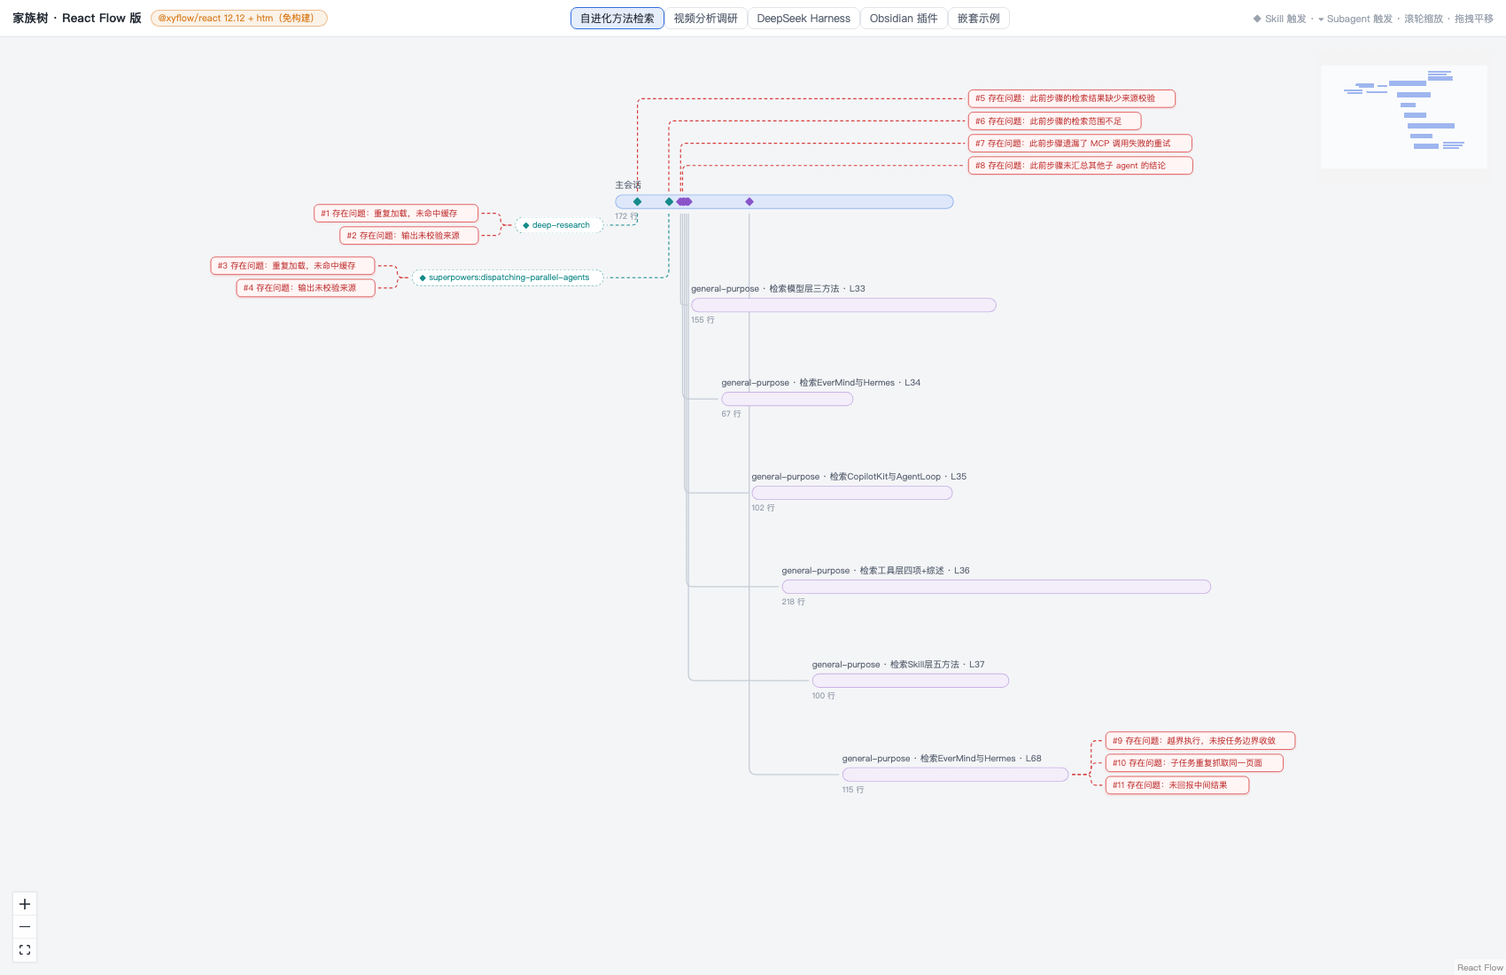
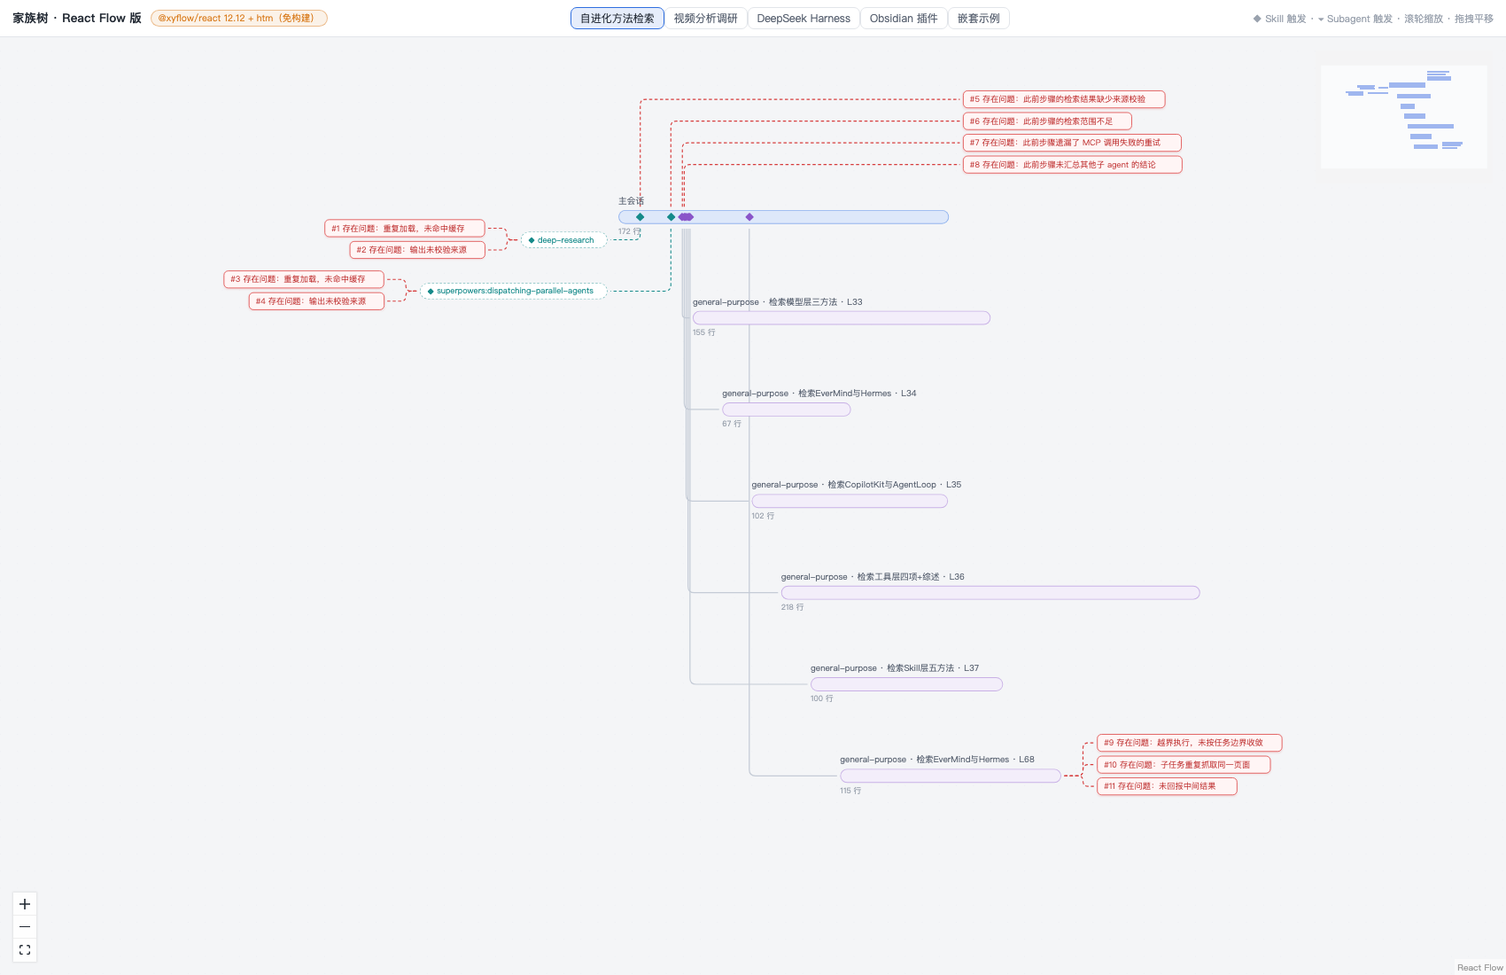
docs(plans): 家族树原型把问题标注挂到各子 agent 触发点 (#14) (#15)
- addReported 改为普通函数，主会话与所有 agent 节点分别调用
- 子 agent 的 skill/agent 触发标记也会生成上报型问题
- 问题上移 36px，避免与触发点连线重叠
- demo-nested 的子任务 B 补 review-changes skill 标记
- 同步刷新 demo 与 reported 两张截图

diff --git a/plans/14-15-ui-prototype/reactflow-tree.html b/plans/14-15-ui-prototype/reactflow-tree.html
@@ -84,7 +84,7 @@ import htm from "htm";
 const html = htm.bind(React.createElement);
 
 /* ── 真实数据：4 条 llm-wiki 会话的递归家族树 ── */
-const TREE = {"050b81ba-9621-4992-84fe-106ae46eb36b":{"main":{"lines":172,"events":[{"line":11,"kind":"skill","name":"deep-research"},{"line":27,"kind":"skill","name":"superpowers:dispatching-parallel-agents"},{"line":33,"kind":"agent","desc":"检索模型层三方法","toolUseId":"call_e53aacffd75243cfb4149364"},{"line":34,"kind":"agent","desc":"检索EverMind与Hermes","toolUseId":"call_c3d67fda22ff475ca33c0727"},{"line":35,"kind":"agent","desc":"检索CopilotKit与AgentLoop","toolUseId":"call_a889b3257feb452b9cf626de"},{"line":36,"kind":"agent","desc":"检索工具层四项+综述","toolUseId":"call_721e8f24e31a43f2ae4a729f"},{"line":37,"kind":"agent","desc":"检索Skill层五方法","toolUseId":"call_ae52e1ef5ee241ada8121daa"},{"line":68,"kind":"agent","desc":"检索EverMind与Hermes","toolUseId":"call_184b9af0f222466c829d47a6"}]},"subs":[{"id":"a2895fbff994319b9","type":"general-purpose","desc":"检索工具层四项+综述","toolUseId":"call_721e8f24e31a43f2ae4a729f","lines":218,"events":[],"children":[]},{"id":"a1e781fa406447bd1","type":"general-purpose","desc":"检索EverMind与Hermes","toolUseId":"call_c3d67fda22ff475ca33c0727","lines":67,"events":[],"children":[]},{"id":"a1b56297d1a40a4a3","type":"general-purpose","desc":"检索CopilotKit与AgentLoop","toolUseId":"call_a889b3257feb452b9cf626de","lines":102,"events":[],"children":[]},{"id":"ac2160daf0faacf0e","type":"general-purpose","desc":"检索EverMind与Hermes","toolUseId":"call_184b9af0f222466c829d47a6","lines":115,"events":[],"children":[]},{"id":"aea6f9b15b1c40b11","type":"general-purpose","desc":"检索Skill层五方法","toolUseId":"call_ae52e1ef5ee241ada8121daa","lines":100,"events":[],"children":[]},{"id":"a52da9da97e2dfb47","type":"general-purpose","desc":"检索模型层三方法","toolUseId":"call_e53aacffd75243cfb4149364","lines":155,"events":[],"children":[]}]},"cb819c5b-286f-4eab-a681-4ba5414b844d":{"main":{"lines":765,"events":[{"line":24,"kind":"skill","name":"deep-research"},{"line":30,"kind":"workflow","name":"deep-research","toolUseId":"call_ca6fc28804434e5090e6a5e2"},{"line":86,"kind":"workflow","name":"workflow","toolUseId":"call_fafc9d21a30c430981d5baec"},{"line":96,"kind":"workflow","name":"workflow","toolUseId":"call_40746578c3e749b59f248000"}]},"subs":[{"id":"wf_1fb8ca61-c70","type":"workflow","desc":"56 个 workflow 子 agent","lines":0,"events":[],"children":[{"id":"ac36d6e975490864d","type":"workflow-subagent","desc":"","toolUseId":null,"lines":18,"events":[],"children":[]},{"id":"a5a83bdb710566b2d","type":"workflow-subagent","desc":"","toolUseId":null,"lines":14,"events":[],"children":[]},{"id":"a6932a5807e8fe835","type":"workflow-subagent","desc":"","toolUseId":null,"lines":14,"events":[],"children":[]},{"id":"a11c18476a850547b","type":"workflow-subagent","desc":"","toolUseId":null,"lines":14,"events":[],"children":[]},{"id":"acd03e893a30ba3d3","type":"workflow-subagent","desc":"","toolUseId":null,"lines":18,"events":[],"children":[]},{"id":"aa3767120db81c557","type":"workflow-subagent","desc":"","toolUseId":null,"lines":25,"events":[],"children":[]},{"id":"a07fd64b88a9fe721","type":"workflow-subagent","desc":"","toolUseId":null,"lines":20,"events":[],"children":[]},{"id":"a75602e08fcc4e0cd","type":"workflow-subagent","desc":"","toolUseId":null,"lines":14,"events":[],"children":[]},{"id":"a16a4a2f8f83ebaf5","type":"workflow-subagent","desc":"","toolUseId":null,"lines":30,"events":[],"children":[]},{"id":"a096d8db77b01a2c5","type":"workflow-subagent","desc":"","toolUseId":null,"lines":16,"events":[],"children":[]},{"id":"ae8dfe8fb668716fa","type":"workflow-subagent","desc":"","toolUseId":null,"lines":23,"events":[],"children":[]},{"id":"aa44961ca580ca971","type":"workflow-subagent","desc":"","toolUseId":null,"lines":14,"events":[],"children":[]},{"id":"a5de0c4193f235a20","type":"workflow-subagent","desc":"","toolUseId":null,"lines":15,"events":[],"children":[]},{"id":"a867160aa06bdb8c3","type":"workflow-subagent","desc":"","toolUseId":null,"lines":12,"events":[],"children":[]},{"id":"a24df81ee6d95db89","type":"workflow-subagent","desc":"","toolUseId":null,"lines":13,"events":[],"children":[]},{"id":"a2a7fe251d67d3f00","type":"workflow-subagent","desc":"","toolUseId":null,"lines":28,"events":[],"children":[]},{"id":"a6ccc55785f59078e","type":"workflow-subagent","desc":"","toolUseId":null,"lines":13,"events":[],"children":[]},{"id":"a205180ccb6595676","type":"workflow-subagent","desc":"","toolUseId":null,"lines":17,"events":[],"children":[]},{"id":"a9dfeef3d5a082ea8","type":"workflow-subagent","desc":"","toolUseId":null,"lines":13,"events":[],"children":[]},{"id":"a88f36ebc60749319","type":"workflow-subagent","desc":"","toolUseId":null,"lines":9,"events":[],"children":[]},{"id":"a6b4c4c5610ee7220","type":"workflow-subagent","desc":"","toolUseId":null,"lines":8,"events":[],"children":[]},{"id":"a7ec3cc0abccf8f18","type":"workflow-subagent","desc":"","toolUseId":null,"lines":16,"events":[],"children":[]},{"id":"a147c8d32bc363abc","type":"workflow-subagent","desc":"","toolUseId":null,"lines":13,"events":[],"children":[]},{"id":"a8dfda2ac8a92b03f","type":"workflow-subagent","desc":"","toolUseId":null,"lines":13,"events":[],"children":[]},{"id":"a069628a22668b5bf","type":"workflow-subagent","desc":"","toolUseId":null,"lines":13,"events":[],"children":[]},{"id":"ab4ac00a69d52afdf","type":"workflow-subagent","desc":"","toolUseId":null,"lines":12,"events":[],"children":[]},{"id":"af96fa5b003c9ba6a","type":"workflow-subagent","desc":"","toolUseId":null,"lines":10,"events":[],"children":[]},{"id":"a58d359839c447fc9","type":"workflow-subagent","desc":"","toolUseId":null,"lines":10,"events":[],"children":[]},{"id":"a51f79677edf27d40","type":"workflow-subagent","desc":"","toolUseId":null,"lines":27,"events":[],"children":[]},{"id":"addf2ae8cc3cdc8a0","type":"workflow-subagent","desc":"","toolUseId":null,"lines":14,"events":[],"children":[]},{"id":"a5f5d43792060d25b","type":"workflow-subagent","desc":"","toolUseId":null,"lines":26,"events":[],"children":[]},{"id":"a4ab3257583e408f5","type":"workflow-subagent","desc":"","toolUseId":null,"lines":14,"events":[],"children":[]},{"id":"ac1b3cdaa9f4a0622","type":"workflow-subagent","desc":"","toolUseId":null,"lines":13,"events":[],"children":[]},{"id":"a07750dfd9e1dbc31","type":"workflow-subagent","desc":"","toolUseId":null,"lines":22,"events":[],"children":[]},{"id":"ad5324b3bbbe5c9fb","type":"workflow-subagent","desc":"","toolUseId":null,"lines":13,"events":[],"children":[]},{"id":"ac9094285f2ae7124","type":"workflow-subagent","desc":"","toolUseId":null,"lines":16,"events":[],"children":[]},{"id":"a5b0a0b71a7d15b4a","type":"workflow-subagent","desc":"","toolUseId":null,"lines":16,"events":[],"children":[]},{"id":"aaf97c90e144c2962","type":"workflow-subagent","desc":"","toolUseId":null,"lines":14,"events":[],"children":[]},{"id":"a04db93ae03781487","type":"workflow-subagent","desc":"","toolUseId":null,"lines":12,"events":[],"children":[]},{"id":"a4165f215195b2771","type":"workflow-subagent","desc":"","toolUseId":null,"lines":14,"events":[],"children":[]},{"id":"ac58eff7336630fd8","type":"workflow-subagent","desc":"","toolUseId":null,"lines":19,"events":[],"children":[]},{"id":"a42023f24122896d7","type":"workflow-subagent","desc":"","toolUseId":null,"lines":16,"events":[],"children":[]},{"id":"a5f24ff936197abf5","type":"workflow-subagent","desc":"","toolUseId":null,"lines":34,"events":[],"children":[]},{"id":"a1daa453c10c94610","type":"workflow-subagent","desc":"","toolUseId":null,"lines":6,"events":[],"children":[]},{"id":"a751831cbb4561874","type":"workflow-subagent","desc":"","toolUseId":null,"lines":22,"events":[],"children":[]},{"id":"a6d5156449ac4d54b","type":"workflow-subagent","desc":"","toolUseId":null,"lines":36,"events":[],"children":[]},{"id":"ac4b110729444739e","type":"workflow-subagent","desc":"","toolUseId":null,"lines":17,"events":[],"children":[]},{"id":"a1ed323809b4de3ab","type":"workflow-subagent","desc":"","toolUseId":null,"lines":23,"events":[],"children":[]},{"id":"a2648bb186362666c","type":"workflow-subagent","desc":"","toolUseId":null,"lines":28,"events":[],"children":[]},{"id":"a9b38066ce599d0e3","type":"workflow-subagent","desc":"","toolUseId":null,"lines":42,"events":[],"children":[]},{"id":"a609a6b4a290624e1","type":"workflow-subagent","desc":"","toolUseId":null,"lines":18,"events":[],"children":[]},{"id":"adf051df0e301c41d","type":"workflow-subagent","desc":"","toolUseId":null,"lines":19,"events":[],"children":[]},{"id":"a5063dc82b8cb21eb","type":"workflow-subagent","desc":"","toolUseId":null,"lines":13,"events":[],"children":[]},{"id":"a1e4c45c611d7b873","type":"workflow-subagent","desc":"","toolUseId":null,"lines":12,"events":[],"children":[]},{"id":"a18da33bd1200e0f3","type":"workflow-subagent","desc":"","toolUseId":null,"lines":22,"events":[],"children":[]},{"id":"a163628a06fde4a4f","type":"workflow-subagent","desc":"","toolUseId":null,"lines":9,"events":[],"children":[]}],"toolUseId":null,"line":30}]},"2f5e7ae8-c04a-46d2-a17a-0b431ef17d44":{"main":{"lines":245,"events":[{"line":70,"kind":"agent","desc":"分析 agent loop 与 LLM 层","toolUseId":"call_f83509dc96064516b918ab58"},{"line":71,"kind":"agent","desc":"分析 session 域实现","toolUseId":"call_baa0925a3c294e1da456a20e"},{"line":72,"kind":"agent","desc":"分析工具管线与安全域","toolUseId":"call_df693038d0b94deba3aa9fcc"},{"line":73,"kind":"agent","desc":"分析自进化与协调面","toolUseId":"call_2b3ef841c8034e90b2ce79a2"}]},"subs":[{"id":"a4e4e3c14f6f54077","type":"Explore","desc":"分析工具管线与安全域","toolUseId":"call_df693038d0b94deba3aa9fcc","lines":123,"events":[],"children":[]},{"id":"a7c4a9def54b2fa40","type":"Explore","desc":"分析 agent loop 与 LLM 层","toolUseId":"call_f83509dc96064516b918ab58","lines":148,"events":[],"children":[]},{"id":"aefdc8337a8afc051","type":"Explore","desc":"分析自进化与协调面","toolUseId":"call_2b3ef841c8034e90b2ce79a2","lines":118,"events":[],"children":[]},{"id":"a131d7b1bd65cf691","type":"Explore","desc":"分析 session 域实现","toolUseId":"call_baa0925a3c294e1da456a20e","lines":193,"events":[],"children":[]}]},"3f8ed3dd-ff2c-4510-b944-b3f3e2edf8f5":{"main":{"lines":390,"events":[{"line":15,"kind":"agent","desc":"分析 claudian 代码仓","toolUseId":"call_86730e8c925e4d9db00b0958"},{"line":16,"kind":"agent","desc":"分析 deepseek-harness 插件机制","toolUseId":"call_4625441ea18541368c324be6"}]},"subs":[{"id":"ac5d429d5b911f846","type":"Explore","desc":"分析 claudian 代码仓","toolUseId":"call_86730e8c925e4d9db00b0958","lines":58,"events":[],"children":[]},{"id":"a67115fa5b0005ae5","type":"Explore","desc":"分析 deepseek-harness 插件机制","toolUseId":"call_4625441ea18541368c324be6","lines":38,"events":[],"children":[]}]},"demo-nested":{"main":{"lines":100,"events":[{"line":20,"kind":"agent","desc":"子任务 A","toolUseId":"call_A"},{"line":80,"kind":"agent","desc":"子任务 B","toolUseId":"call_B"}]},"subs":[{"id":"A","type":"general-purpose","desc":"子任务 A","lines":60,"toolUseId":"call_A","events":[{"line":30,"kind":"agent","desc":"子任务 C","toolUseId":"call_C"}],"children":[{"id":"C","type":"Explore","desc":"子任务 C","lines":20,"events":[],"children":[]}]},{"id":"B","type":"general-purpose","desc":"子任务 B","lines":40,"toolUseId":"call_B","events":[],"children":[]}]}};
+const TREE = {"050b81ba-9621-4992-84fe-106ae46eb36b":{"main":{"lines":172,"events":[{"line":11,"kind":"skill","name":"deep-research"},{"line":27,"kind":"skill","name":"superpowers:dispatching-parallel-agents"},{"line":33,"kind":"agent","desc":"检索模型层三方法","toolUseId":"call_e53aacffd75243cfb4149364"},{"line":34,"kind":"agent","desc":"检索EverMind与Hermes","toolUseId":"call_c3d67fda22ff475ca33c0727"},{"line":35,"kind":"agent","desc":"检索CopilotKit与AgentLoop","toolUseId":"call_a889b3257feb452b9cf626de"},{"line":36,"kind":"agent","desc":"检索工具层四项+综述","toolUseId":"call_721e8f24e31a43f2ae4a729f"},{"line":37,"kind":"agent","desc":"检索Skill层五方法","toolUseId":"call_ae52e1ef5ee241ada8121daa"},{"line":68,"kind":"agent","desc":"检索EverMind与Hermes","toolUseId":"call_184b9af0f222466c829d47a6"}]},"subs":[{"id":"a2895fbff994319b9","type":"general-purpose","desc":"检索工具层四项+综述","toolUseId":"call_721e8f24e31a43f2ae4a729f","lines":218,"events":[],"children":[]},{"id":"a1e781fa406447bd1","type":"general-purpose","desc":"检索EverMind与Hermes","toolUseId":"call_c3d67fda22ff475ca33c0727","lines":67,"events":[],"children":[]},{"id":"a1b56297d1a40a4a3","type":"general-purpose","desc":"检索CopilotKit与AgentLoop","toolUseId":"call_a889b3257feb452b9cf626de","lines":102,"events":[],"children":[]},{"id":"ac2160daf0faacf0e","type":"general-purpose","desc":"检索EverMind与Hermes","toolUseId":"call_184b9af0f222466c829d47a6","lines":115,"events":[],"children":[]},{"id":"aea6f9b15b1c40b11","type":"general-purpose","desc":"检索Skill层五方法","toolUseId":"call_ae52e1ef5ee241ada8121daa","lines":100,"events":[],"children":[]},{"id":"a52da9da97e2dfb47","type":"general-purpose","desc":"检索模型层三方法","toolUseId":"call_e53aacffd75243cfb4149364","lines":155,"events":[],"children":[]}]},"cb819c5b-286f-4eab-a681-4ba5414b844d":{"main":{"lines":765,"events":[{"line":24,"kind":"skill","name":"deep-research"},{"line":30,"kind":"workflow","name":"deep-research","toolUseId":"call_ca6fc28804434e5090e6a5e2"},{"line":86,"kind":"workflow","name":"workflow","toolUseId":"call_fafc9d21a30c430981d5baec"},{"line":96,"kind":"workflow","name":"workflow","toolUseId":"call_40746578c3e749b59f248000"}]},"subs":[{"id":"wf_1fb8ca61-c70","type":"workflow","desc":"56 个 workflow 子 agent","lines":0,"events":[],"children":[{"id":"ac36d6e975490864d","type":"workflow-subagent","desc":"","toolUseId":null,"lines":18,"events":[],"children":[]},{"id":"a5a83bdb710566b2d","type":"workflow-subagent","desc":"","toolUseId":null,"lines":14,"events":[],"children":[]},{"id":"a6932a5807e8fe835","type":"workflow-subagent","desc":"","toolUseId":null,"lines":14,"events":[],"children":[]},{"id":"a11c18476a850547b","type":"workflow-subagent","desc":"","toolUseId":null,"lines":14,"events":[],"children":[]},{"id":"acd03e893a30ba3d3","type":"workflow-subagent","desc":"","toolUseId":null,"lines":18,"events":[],"children":[]},{"id":"aa3767120db81c557","type":"workflow-subagent","desc":"","toolUseId":null,"lines":25,"events":[],"children":[]},{"id":"a07fd64b88a9fe721","type":"workflow-subagent","desc":"","toolUseId":null,"lines":20,"events":[],"children":[]},{"id":"a75602e08fcc4e0cd","type":"workflow-subagent","desc":"","toolUseId":null,"lines":14,"events":[],"children":[]},{"id":"a16a4a2f8f83ebaf5","type":"workflow-subagent","desc":"","toolUseId":null,"lines":30,"events":[],"children":[]},{"id":"a096d8db77b01a2c5","type":"workflow-subagent","desc":"","toolUseId":null,"lines":16,"events":[],"children":[]},{"id":"ae8dfe8fb668716fa","type":"workflow-subagent","desc":"","toolUseId":null,"lines":23,"events":[],"children":[]},{"id":"aa44961ca580ca971","type":"workflow-subagent","desc":"","toolUseId":null,"lines":14,"events":[],"children":[]},{"id":"a5de0c4193f235a20","type":"workflow-subagent","desc":"","toolUseId":null,"lines":15,"events":[],"children":[]},{"id":"a867160aa06bdb8c3","type":"workflow-subagent","desc":"","toolUseId":null,"lines":12,"events":[],"children":[]},{"id":"a24df81ee6d95db89","type":"workflow-subagent","desc":"","toolUseId":null,"lines":13,"events":[],"children":[]},{"id":"a2a7fe251d67d3f00","type":"workflow-subagent","desc":"","toolUseId":null,"lines":28,"events":[],"children":[]},{"id":"a6ccc55785f59078e","type":"workflow-subagent","desc":"","toolUseId":null,"lines":13,"events":[],"children":[]},{"id":"a205180ccb6595676","type":"workflow-subagent","desc":"","toolUseId":null,"lines":17,"events":[],"children":[]},{"id":"a9dfeef3d5a082ea8","type":"workflow-subagent","desc":"","toolUseId":null,"lines":13,"events":[],"children":[]},{"id":"a88f36ebc60749319","type":"workflow-subagent","desc":"","toolUseId":null,"lines":9,"events":[],"children":[]},{"id":"a6b4c4c5610ee7220","type":"workflow-subagent","desc":"","toolUseId":null,"lines":8,"events":[],"children":[]},{"id":"a7ec3cc0abccf8f18","type":"workflow-subagent","desc":"","toolUseId":null,"lines":16,"events":[],"children":[]},{"id":"a147c8d32bc363abc","type":"workflow-subagent","desc":"","toolUseId":null,"lines":13,"events":[],"children":[]},{"id":"a8dfda2ac8a92b03f","type":"workflow-subagent","desc":"","toolUseId":null,"lines":13,"events":[],"children":[]},{"id":"a069628a22668b5bf","type":"workflow-subagent","desc":"","toolUseId":null,"lines":13,"events":[],"children":[]},{"id":"ab4ac00a69d52afdf","type":"workflow-subagent","desc":"","toolUseId":null,"lines":12,"events":[],"children":[]},{"id":"af96fa5b003c9ba6a","type":"workflow-subagent","desc":"","toolUseId":null,"lines":10,"events":[],"children":[]},{"id":"a58d359839c447fc9","type":"workflow-subagent","desc":"","toolUseId":null,"lines":10,"events":[],"children":[]},{"id":"a51f79677edf27d40","type":"workflow-subagent","desc":"","toolUseId":null,"lines":27,"events":[],"children":[]},{"id":"addf2ae8cc3cdc8a0","type":"workflow-subagent","desc":"","toolUseId":null,"lines":14,"events":[],"children":[]},{"id":"a5f5d43792060d25b","type":"workflow-subagent","desc":"","toolUseId":null,"lines":26,"events":[],"children":[]},{"id":"a4ab3257583e408f5","type":"workflow-subagent","desc":"","toolUseId":null,"lines":14,"events":[],"children":[]},{"id":"ac1b3cdaa9f4a0622","type":"workflow-subagent","desc":"","toolUseId":null,"lines":13,"events":[],"children":[]},{"id":"a07750dfd9e1dbc31","type":"workflow-subagent","desc":"","toolUseId":null,"lines":22,"events":[],"children":[]},{"id":"ad5324b3bbbe5c9fb","type":"workflow-subagent","desc":"","toolUseId":null,"lines":13,"events":[],"children":[]},{"id":"ac9094285f2ae7124","type":"workflow-subagent","desc":"","toolUseId":null,"lines":16,"events":[],"children":[]},{"id":"a5b0a0b71a7d15b4a","type":"workflow-subagent","desc":"","toolUseId":null,"lines":16,"events":[],"children":[]},{"id":"aaf97c90e144c2962","type":"workflow-subagent","desc":"","toolUseId":null,"lines":14,"events":[],"children":[]},{"id":"a04db93ae03781487","type":"workflow-subagent","desc":"","toolUseId":null,"lines":12,"events":[],"children":[]},{"id":"a4165f215195b2771","type":"workflow-subagent","desc":"","toolUseId":null,"lines":14,"events":[],"children":[]},{"id":"ac58eff7336630fd8","type":"workflow-subagent","desc":"","toolUseId":null,"lines":19,"events":[],"children":[]},{"id":"a42023f24122896d7","type":"workflow-subagent","desc":"","toolUseId":null,"lines":16,"events":[],"children":[]},{"id":"a5f24ff936197abf5","type":"workflow-subagent","desc":"","toolUseId":null,"lines":34,"events":[],"children":[]},{"id":"a1daa453c10c94610","type":"workflow-subagent","desc":"","toolUseId":null,"lines":6,"events":[],"children":[]},{"id":"a751831cbb4561874","type":"workflow-subagent","desc":"","toolUseId":null,"lines":22,"events":[],"children":[]},{"id":"a6d5156449ac4d54b","type":"workflow-subagent","desc":"","toolUseId":null,"lines":36,"events":[],"children":[]},{"id":"ac4b110729444739e","type":"workflow-subagent","desc":"","toolUseId":null,"lines":17,"events":[],"children":[]},{"id":"a1ed323809b4de3ab","type":"workflow-subagent","desc":"","toolUseId":null,"lines":23,"events":[],"children":[]},{"id":"a2648bb186362666c","type":"workflow-subagent","desc":"","toolUseId":null,"lines":28,"events":[],"children":[]},{"id":"a9b38066ce599d0e3","type":"workflow-subagent","desc":"","toolUseId":null,"lines":42,"events":[],"children":[]},{"id":"a609a6b4a290624e1","type":"workflow-subagent","desc":"","toolUseId":null,"lines":18,"events":[],"children":[]},{"id":"adf051df0e301c41d","type":"workflow-subagent","desc":"","toolUseId":null,"lines":19,"events":[],"children":[]},{"id":"a5063dc82b8cb21eb","type":"workflow-subagent","desc":"","toolUseId":null,"lines":13,"events":[],"children":[]},{"id":"a1e4c45c611d7b873","type":"workflow-subagent","desc":"","toolUseId":null,"lines":12,"events":[],"children":[]},{"id":"a18da33bd1200e0f3","type":"workflow-subagent","desc":"","toolUseId":null,"lines":22,"events":[],"children":[]},{"id":"a163628a06fde4a4f","type":"workflow-subagent","desc":"","toolUseId":null,"lines":9,"events":[],"children":[]}],"toolUseId":null,"line":30}]},"2f5e7ae8-c04a-46d2-a17a-0b431ef17d44":{"main":{"lines":245,"events":[{"line":70,"kind":"agent","desc":"分析 agent loop 与 LLM 层","toolUseId":"call_f83509dc96064516b918ab58"},{"line":71,"kind":"agent","desc":"分析 session 域实现","toolUseId":"call_baa0925a3c294e1da456a20e"},{"line":72,"kind":"agent","desc":"分析工具管线与安全域","toolUseId":"call_df693038d0b94deba3aa9fcc"},{"line":73,"kind":"agent","desc":"分析自进化与协调面","toolUseId":"call_2b3ef841c8034e90b2ce79a2"}]},"subs":[{"id":"a4e4e3c14f6f54077","type":"Explore","desc":"分析工具管线与安全域","toolUseId":"call_df693038d0b94deba3aa9fcc","lines":123,"events":[],"children":[]},{"id":"a7c4a9def54b2fa40","type":"Explore","desc":"分析 agent loop 与 LLM 层","toolUseId":"call_f83509dc96064516b918ab58","lines":148,"events":[],"children":[]},{"id":"aefdc8337a8afc051","type":"Explore","desc":"分析自进化与协调面","toolUseId":"call_2b3ef841c8034e90b2ce79a2","lines":118,"events":[],"children":[]},{"id":"a131d7b1bd65cf691","type":"Explore","desc":"分析 session 域实现","toolUseId":"call_baa0925a3c294e1da456a20e","lines":193,"events":[],"children":[]}]},"3f8ed3dd-ff2c-4510-b944-b3f3e2edf8f5":{"main":{"lines":390,"events":[{"line":15,"kind":"agent","desc":"分析 claudian 代码仓","toolUseId":"call_86730e8c925e4d9db00b0958"},{"line":16,"kind":"agent","desc":"分析 deepseek-harness 插件机制","toolUseId":"call_4625441ea18541368c324be6"}]},"subs":[{"id":"ac5d429d5b911f846","type":"Explore","desc":"分析 claudian 代码仓","toolUseId":"call_86730e8c925e4d9db00b0958","lines":58,"events":[],"children":[]},{"id":"a67115fa5b0005ae5","type":"Explore","desc":"分析 deepseek-harness 插件机制","toolUseId":"call_4625441ea18541368c324be6","lines":38,"events":[],"children":[]}]},"demo-nested":{"main":{"lines":100,"events":[{"line":20,"kind":"agent","desc":"子任务 A","toolUseId":"call_A"},{"line":80,"kind":"agent","desc":"子任务 B","toolUseId":"call_B"}]},"subs":[{"id":"A","type":"general-purpose","desc":"子任务 A","lines":60,"toolUseId":"call_A","events":[{"line":30,"kind":"agent","desc":"子任务 C","toolUseId":"call_C"}],"children":[{"id":"C","type":"Explore","desc":"子任务 C","lines":20,"events":[],"children":[]}]},{"id":"B","type":"general-purpose","desc":"子任务 B","lines":40,"toolUseId":"call_B","events":[{"line":15,"kind":"skill","name":"review-changes"}],"children":[]}]}};
 
 /* 精确测量文字宽度（与药丸同字体），避免药丸留白 */
 const _mc = document.createElement("canvas").getContext("2d");
@@ -281,7 +281,7 @@ function buildGraph(sid, expanded) {
   });
 
   // ── 上报型问题（类型 3/4）：挂在触发点右上方，先触发的在上 ──
-  (function addReported(parentId, parentX, parentY, parentW, marks) {
+  function addReported(parentId, parentX, parentY, parentW, marks) {
     const trig = (marks || [])
       .filter(m => m.kind === "skill" || m.kind === "agent" || m.kind === "workflow")
       .sort((a, b) => (a.line || 0) - (b.line || 0))
@@ -296,7 +296,7 @@ function buildGraph(sid, expanded) {
         : `#${fn++} 存在问题：${agentTexts[i % 2]}`;
       const w = Math.max(170, Math.min(300, 26 + textW(text)));
       const x = parentX + parentW + 18;
-      const y = barTop - 14 - (trig.length - i) * 28;
+      const y = barTop - 36 - (trig.length - i) * 28;
       const fid = `rep-${parentId}-${i}`;
       nodes.push({ id: fid, type: "finding", position: { x, y }, data: { text, w } });
       edges.push({
@@ -307,7 +307,12 @@ function buildGraph(sid, expanded) {
         style: { stroke: RED, strokeWidth: 1.3, strokeDasharray: "4 3" },
       });
     });
-  })("main", 60, 40, rootW, mainData.events.length ? marksOf(d.main.events, d.main.lines) : []);
+  }
+
+  addReported("main", 60, 40, rootW, d.main.events.length ? marksOf(d.main.events, d.main.lines) : []);
+  nodes
+    .filter(n => n.type === "agent" && n.id !== "main")
+    .forEach(n => addReported(n.id, n.position.x, n.position.y, n.data.w, n.data.marks || []));
 
   // 最后一个 subagent：3 条问题，堆在条右侧
   const agentNodes = nodes.filter(n => n.type === "agent");
